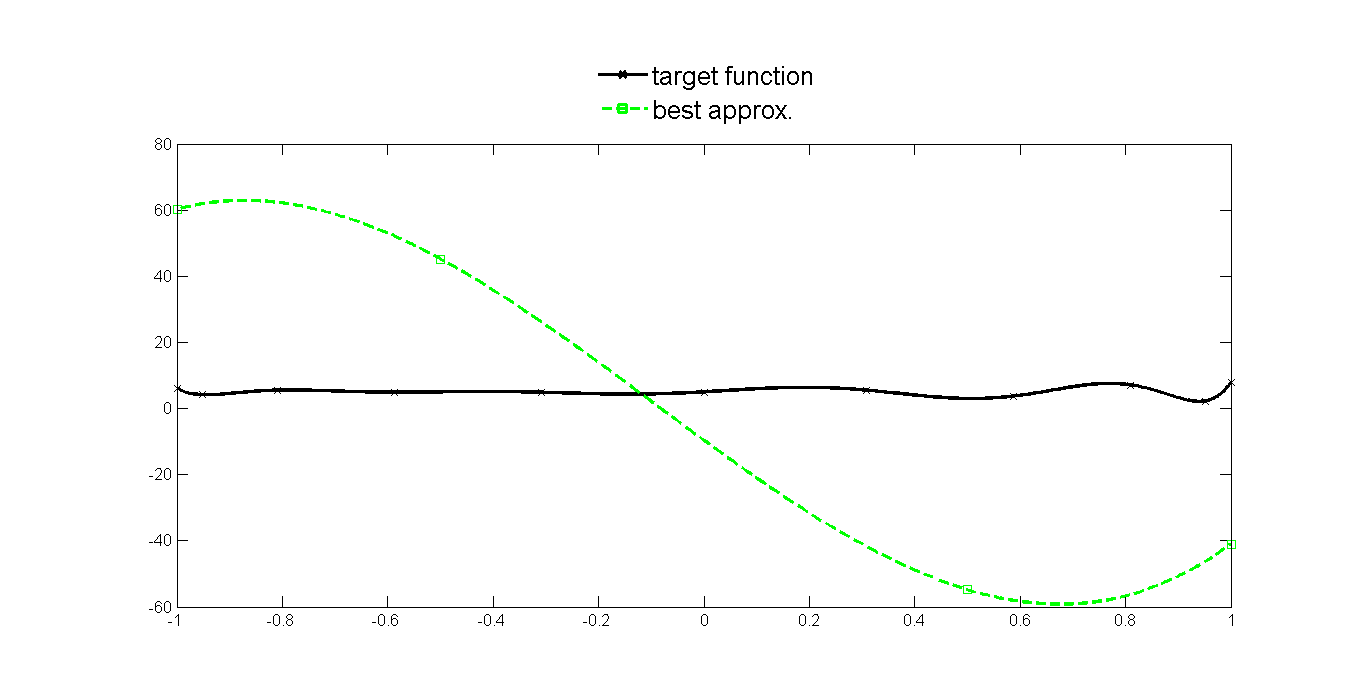
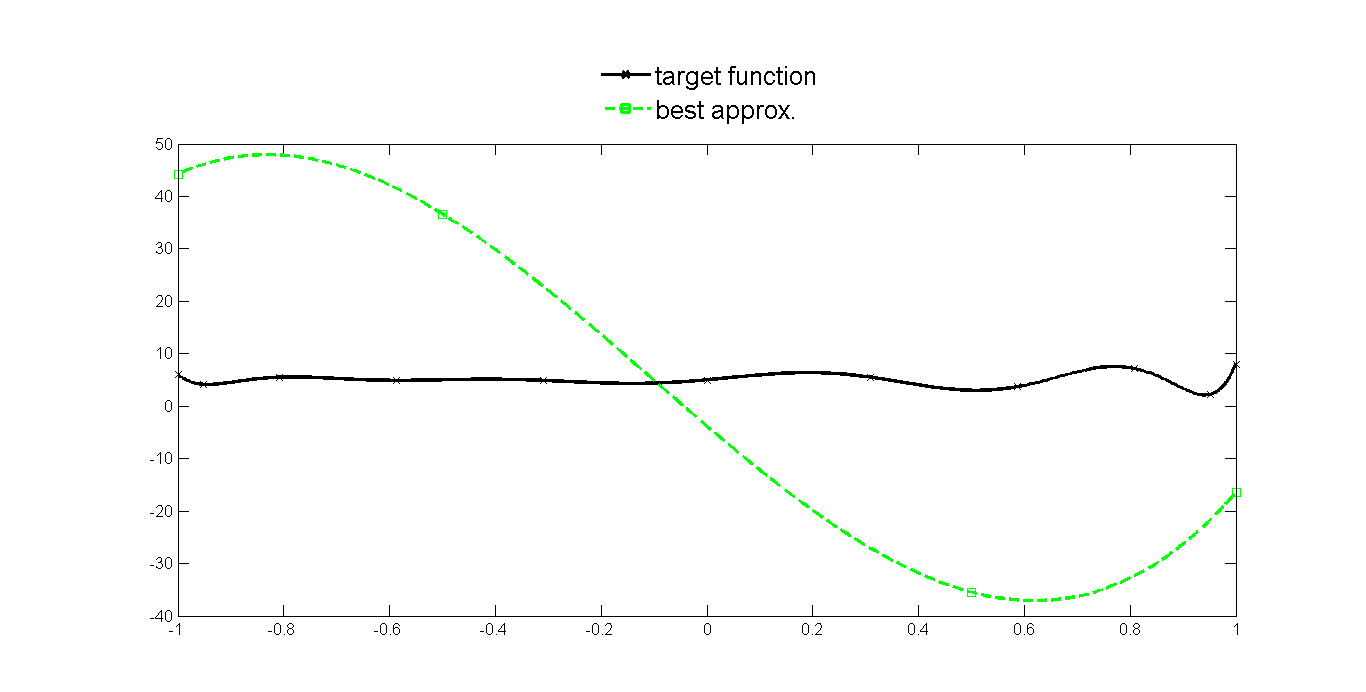
examples changes
Fixed mistakes in examples
Added numbers to examples

diff --git a/BascUsersGuide.html b/BascUsersGuide.html
@@ -277,7 +277,7 @@ and solved using CVX [2].
                         <td>
                             <a onclick="
                                 $('#guide_examples').parent('div.body_content_container').find('div.content_box').slideDown(0);
-                                $(window).scrollTop($('#examples_obj_fun').offset().top);">basc(F,n,'objective',{inf,{1,0.5}})</a>
+                                $(window).scrollTop($('#examples_obj_fun').offset().top);">basc(F,n,'objective',{inf,{0,1},{1,1/3}})</a>
                         </td>
                     </tr>
                     <!--side-->
@@ -681,11 +681,10 @@ set(legend(<span class="string">'target function'</span>, <span class="string">'
                 <div class="body_content_container_container">
                     <div class="content_content_box" id="examples_norm">
                         <p>
-                            Here we approximate the function $F(x) = T_{10}(x)$ 
-                            by polynomials of degree $n = 0$ in the 6-norm. According to  the equioscillation property
-                            for the unconstrained approximation the approximant is a horizontal line that goes though $0$.
+                            <span class="exNum">1. </span>Here we approximate the function $F(x) = T_{10}(x)$ 
+                            by polynomials of degree $n = 4$ in the 6-norm.
                         </p>
-                        <div class="code_box">n = 0; F = chebpoly(10);
+                        <div class="code_box">n = 4; F = chebpoly(10);
 [e,P] = basc(F,n,<span class="string">'norm'</span>,6);
 set(figure(1),POS,pos);
 plot(F,<span class="string">'x-k'</span>,P,<span class="string">'s--g'</span>,LW,lw);
@@ -702,10 +701,10 @@ set(legend(<span class="string">'target function'</span>, <span class="string">'
                 <div class="body_content_container_container">
                     <div class="content_content_box" id="examples_weight">
                         <p>
-                            Here we approximate the function $F(x) = T_{10}(x)$ 
-                            by polynomials of degree $n = 0$ in the max-norm with the weight $W(x) = x^2$.
+                            <span class="exNum">2. </span>Here we approximate the function $F(x) = T_{10}(x)$ 
+                            by polynomials of degree $n = 2$ in the max-norm with the weight $W(x) = x^2$.
                         </p>
-                        <div class="code_box">n = 0; F = chebpoly(10);
+                        <div class="code_box">n = 2; F = chebpoly(10);
 [e,P] = basc(F,n,<span class="string">'weight'</span>,chebfun(<span class="string">'x.^2'</span>))
 set(figure(1),POS,pos);
 plot(F,<span class="string">'x-k'</span>,P,<span class="string">'s--g'</span>,LW,lw);
@@ -722,7 +721,7 @@ set(legend(<span class="string">'target function'</span>, <span class="string">'
                 <div class="body_content_container_container">
                     <div class="content_content_box" id="examples_breakpoints">
                         <p>
-                            Here we approximate the function $F(x) = T_{10}(x)$ in the max-norm by a piecewise polynomial of degrees $1$, $4$, $1$, and $4$ on the intervals $[-1,-1/2]$, $[-1/2,0]$, $[0,1/2]$, and $[1/2,0]$, respectively.
+                            <span class="exNum">3. </span>Here we approximate the function $F(x) = T_{10}(x)$ in the max-norm by a piecewise polynomial of degrees $1$, $4$, $1$, and $4$ on the intervals $[-1,-1/2]$, $[-1/2,0]$, $[0,1/2]$, and $[1/2,0]$, respectively.
                         </p>
                         <div class="code_box">F = chebpoly(10);
 [e,P] = basc(F,[1 4 1 4],<span class="string">'bkpts'</span>,[-1/2 0 1/2])
@@ -741,7 +740,7 @@ set(legend(<span class="string">'target function'</span>, <span class="string">'
                 <div class="body_content_container_container">
                     <div class="content_content_box" id="examples_smoothness">
                         <p>
-                            Here we approximate the function $F(x) = T_{10}(x)$ in the max-norm by splines of degrees $1$, $4$, $1$, and $4$ on the intervals $[-1,-1/2]$, $[-1/2,0]$, $[0,1/2]$, and $[1/2,0]$, respectively, in such a way that the approximant is continuous at $-1/2$ and $1/2$ and differentiable at $0$.
+                            <span class="exNum">4. </span>Here we approximate the function $F(x) = T_{10}(x)$ in the max-norm by splines of degrees $1$, $4$, $1$, and $4$ on the intervals $[-1,-1/2]$, $[-1/2,0]$, $[0,1/2]$, and $[1/2,0]$, respectively, in such a way that the approximant is continuous at $-1/2$ and $1/2$ and differentiable at $0$.
                         </p>
                         <div class="code_box">F = chebpoly(10);
 [e,P] = basc(F,[1 4 1 4],<span class="string">'bkpts'</span>,[-1/2 0 1/2],<span class="string">'smoothness'</span>,[0 1 0])
@@ -760,9 +759,9 @@ set(legend(<span class="string">'target function'</span>, <span class="string">'
                 <div class="body_content_container_container">
                     <div class="content_content_box" id="examples_parity">
                         <p>
-                            Here we approximate the function $F(x) = T_{10}(x)+T_9(x)+T_8(x)+5$ in the max-norm by polynomials of degree $n \le 3$  that are even.
+                            <span class="exNum">5. </span>Here we approximate the function $F(x) = T_{10}(x)+T_9(x)+T_8(x)+5$ in the max-norm by polynomials of degree $n \le 4$  that are even.
                         </p>
-                        <div class="code_box">n = 3; F = chebpoly(10)+chebpoly(9)+chebpoly(8)+5;
+                        <div class="code_box">n = 4; F = chebpoly(10)+chebpoly(9)+chebpoly(8)+5;
 [e,P] = basc(F,n,<span class="string">'parity'</span>,<span class="string">'even'</span>);
 set(figure(1),POS,pos);
 plot(F,<span class="string">'x-k'</span>,P,<span class="string">'s--g'</span>,LW,lw);
@@ -779,7 +778,7 @@ set(legend(<span class="string">'target function'</span>, <span class="string">'
                 <div class="body_content_container_container">
                     <div class="content_content_box" id="examples_interpolation0">
                         <p>
-                            Here we approximate the function $F(x) = T_5(x)$ in the max-norm by polynomials of degree $n \le 5$ with the interpolating constraint that the approximant vanishes at $-1/2$, $0$, and $1/2$.
+                            <span class="exNum">6. </span>Here we approximate the function $F(x) = T_5(x)$ in the max-norm by polynomials of degree $n \le 5$ with the interpolating constraint that the approximant vanishes at $-1/2$, $0$, and $1/2$.
                         </p>
                         <div class="code_box">n = 5; F = chebpoly(5);
 [e,P]=basc(F, n, <span class="string">'interpolation'</span>, {{0, [-1/2 0 1/2; 0 0 0]}})
@@ -798,7 +797,7 @@ set(legend(<span class="string">'target function'</span>, <span class="string">'
                 <div class="body_content_container_container">
                     <div class="content_content_box" id="examples_interpolation1">
                         <p>
-                            Here we approximate the function $F(x) = T_5(x)$ in the max-norm by polynomials of degree $n \le 4$ with the constraint that the approximant interpolates $F$ at $-1/2$, $0$, and $1/2$.
+                            <span class="exNum">7. </span>Here we approximate the function $F(x) = T_5(x)$ in the max-norm by polynomials of degree $n \le 4$ with the constraint that the approximant interpolates $F$ at $-1/2$, $0$, and $1/2$.
                         </p>
                         <div class="code_box">n = 4; F = chebpoly(5);
 [e,P]=basc(F, n, <span class="string">'interpolation'</span>, {{0, [-1/2 0 1/2]}})
@@ -817,7 +816,7 @@ set(legend(<span class="string">'target function'</span>, <span class="string">'
                 <div class="body_content_container_container">
                     <div class="content_content_box" id="examples_upper_range">
                         <p>
-                            Here we approximate the function $F(x) = T_{10}(x)+T_9(x)+T_8(x)+5$ in the max-norm by polynomials of degree $n \le 3$  with the upper range constraint that the approximant is bounded above by $1-x^2$ and its derivative  is bounded above by $1$.
+                            <span class="exNum">8. </span>Here we approximate the function $F(x) = T_{10}(x)+T_9(x)+T_8(x)+5$ in the max-norm by polynomials of degree $n \le 3$  with the upper range constraint that the approximant is bounded above by $1-x^2$ and its derivative  is bounded above by $1$.
                         </p>
                         <div class="code_box">n = 3; F = chebpoly(10)+chebpoly(9)+chebpoly(8)+5;
 [e,P] = basc(F,n,<span class="string">'upper range'</span>,{{0,chebfun(<span class="string">'1-x.^2'</span>)},{1,chebfun(<span class="string">'1'</span>)}})
@@ -836,7 +835,7 @@ set(legend(<span class="string">'target function'</span>, <span class="string">'
                 <div class="body_content_container_container">
                     <div class="content_content_box" id="examples_lower_range">
                         <p>
-                            Here we approximate the function $F(x) = T_{10}(x)+T_9(x)+T_8(x)+5$ in the max-norm by polynomials of degree $n \le 3$ with the lower range constraint that the approximant is bounded below by $x^2-1$ and its derivative is bounded below by $-1$.
+                            <span class="exNum">9. </span>Here we approximate the function $F(x) = T_{10}(x)+T_9(x)+T_8(x)+5$ in the max-norm by polynomials of degree $n \le 3$ with the lower range constraint that the approximant is bounded below by $x^2-1$ and its derivative is bounded below by $-1$.
                         </p>
                         <div class="code_box">n = 3; F = chebpoly(10)+chebpoly(9)+chebpoly(8)+5;
 [e,P] = basc(F,n,<span class="string">'lower range'</span>,{{0,chebfun(<span class="string">'x.^2-1'</span>)},{1,chebfun(<span class="string">'-1'</span>)}})
@@ -855,7 +854,7 @@ set(legend(<span class="string">'target function'</span>, <span class="string">'
                 <div class="body_content_container_container">
                     <div class="content_content_box" id="examples_shape">
                         <p>
-                            Here we approximate the function $F(x) = T_{10}(x)+T_9(x)+T_8(x)+5$ in the max-norm by polynomials of degree $n \le 3$  with the shape constraint that the approximant is concave on $[-1,0]$ and convex on $[0,1]$.
+                            <span class="exNum">10. </span>Here we approximate the function $F(x) = T_{10}(x)+T_9(x)+T_8(x)+5$ in the max-norm by polynomials of degree $n \le 3$  with the shape constraint that the approximant is concave on $[-1,0]$ and convex on $[0,1]$.
                         </p>
                         <div class="code_box">n = 3; F = chebpoly(10)+chebpoly(9)+chebpoly(8)+5;
 [e,P] = basc(F,n,<span class="string">'shape'</span>,{{2,chebfun(<span class="string">'x'</span>)}}')
@@ -874,11 +873,11 @@ set(legend(<span class="string">'target function'</span>, <span class="string">'
                 <div class="body_content_container_container">
                     <div class="content_content_box" id="examples_obj_fun">
                         <p>
-                            Here we approximate the function $F(x) = T_{10}(x)+T_9(x)+T_8(x)+5$ by polynomials of degree $n \le 3$ in the max-norm with objective function constraint such that
-                            its derivative has the weight $W(x)=0.5$.
+                            <span class="exNum">11. </span>Here we approximate the function $F(x) = T_{10}(x)+T_9(x)+T_8(x)+5$ by polynomials of degree $n \le 3$ in the max-norm with objective function constraint such that
+                            it has the weight $W_1(x)=1$ and its derivative has the weight $W_2(x)=1/3$.
                         </p>
                         <div class="code_box">n = 3; F = chebpoly(10)+chebpoly(9)+chebpoly(8)+5;
-[e,P] = basc(F,n,<span class="string">'objective'</span>,{inf,{1,0.5}})
+[e,P] = basc(F,n,<span class="string">'objective'</span>,{inf,{0,1},{1,1/3}})
 set(figure(1),POS,pos);
 plot(F,<span class="string">'x-k'</span>,P,<span class="string">'s--g'</span>,LW,lw);
 set(legend(<span class="string">'target function'</span>, <span class="string">'best approx.'</span>),FS,fs,LOC,loc,BX,bx);</div>
@@ -894,10 +893,10 @@ set(legend(<span class="string">'target function'</span>, <span class="string">'
                 <div class="body_content_container_container">
                     <div class="content_content_box" id="examples_side">
                         <p>
-                            Here we approximate the function $F(x) = T_{10}(x)+T_9(x)+T_8(x)+5$ in the max-norm  by polynomials of degree $n \le 3$  with
+                            <span class="exNum">12. </span>Here we approximate the function $F(x) = T_{10}(x)+T_9(x)+T_8(x)+5$ in the max-norm  by polynomials of degree $n \le 4$  with
                             the constraint that the approximant is larger than the target function.
                         </p>
-                        <div class="code_box">n = 3; F = chebpoly(10)+chebpoly(9)+chebpoly(8)+5;
+                        <div class="code_box">n = 4; F = chebpoly(10)+chebpoly(9)+chebpoly(8)+5;
 [e,P] = basc(F,n,<span class="string">'above'</span>)
 set(figure(1),POS,pos);
 plot(F,<span class="string">'x-k'</span>,P,<span class="string">'s--g'</span>,LW,lw);
@@ -914,10 +913,10 @@ set(legend(<span class="string">'target function'</span>, <span class="string">'
                 <div class="body_content_container_container">
                     <div class="content_content_box" id="examples_sign">
                         <p>
-                            Here we approximate the function $F(x) = T_{10}(x)-3$ in the max-norm by polynomials of degree $n \le 3$  with
+                            <span class="exNum">13. </span>Here we approximate the function $F(x) = T_{10}(x)-2$ in the max-norm by polynomials of degree $n \le 3$  with
                             the constraint that the approximant is positive.
                         </p>
-                        <div class="code_box">n = 3; F = chebpoly(10)-3;
+                        <div class="code_box">n = 3; F = chebpoly(10)-2;
 [e,P] = basc(F,n,<span class="string">'positive'</span>)
 set(figure(1),POS,pos);
 plot(F,<span class="string">'x-k'</span>,P,<span class="string">'s--g'</span>,LW,lw);
@@ -934,7 +933,7 @@ set(legend(<span class="string">'target function'</span>, <span class="string">'
                 <div class="body_content_container_container">
                     <div class="content_content_box" id="examples_monotonicity">
                         <p>
-                            Here we approximate the function $F(x) = T_{10}(x)+T_9(x)+T_8(x)+5$ in the max-norm by polynomials of degree $n \le 3$  with
+                            <span class="exNum">14. </span>Here we approximate the function $F(x) = T_{10}(x)+T_9(x)+T_8(x)+5$ in the max-norm by polynomials of degree $n \le 3$  with
                             the constraint that the approximant is decreasing.
                         </p>
                         <div class="code_box">n = 3; F = chebpoly(10)+chebpoly(9)+chebpoly(8)+5;
@@ -954,7 +953,7 @@ set(legend(<span class="string">'target function'</span>, <span class="string">'
                 <div class="body_content_container_container">
                     <div class="content_content_box" id="examples_concavity">
                         <p>
-                            Here we approximate the function $F(x) = T_{10}(x)+T_9(x)+T_8(x)+5$ in the max-norm by polynomials of degree $n \le 3$  with the constraint that the approximant is convex.
+                            <span class="exNum">15. </span>Here we approximate the function $F(x) = T_{10}(x)+T_9(x)+T_8(x)+5$ in the max-norm by polynomials of degree $n \le 3$  with the constraint that the approximant is convex.
                         </p>
                         <div class="code_box">n = 3; F = chebpoly(10)+chebpoly(9)+chebpoly(8)+5;
 [e,P] = basc(F,n,<span class="string">'convex'</span>)
@@ -973,7 +972,7 @@ set(legend(<span class="string">'target function'</span>, <span class="string">'
                 <div class="body_content_container_container">
                     <div class="content_content_box" id="examples_quiet">
                         <p>
-                            Here we display CVX's screen output when approximating the function $F(x) = T_{10}(x)+T_9(x)+T_8(x)+5$ in the max-norm  by polynomials of degree $n \le 3$.
+                            <span class="exNum">16. </span>Here we display CVX's screen output when approximating the function $F(x) = T_{10}(x)+T_9(x)+T_8(x)+5$ in the max-norm  by polynomials of degree $n \le 3$.
                         </p>    
                         <div class="code_box">n = 3; F = chebpoly(10)+chebpoly(9)+chebpoly(8)+5;
 [e,P] = basc(F,n,<span class="string">'quiet'</span>,false)
@@ -1056,7 +1055,7 @@ Epslevel = 1.110223e-15.  Vscale = 7.324816e+00.
                 <div class="body_content_container_container">
                     <div class="content_content_box" id="examples_precision">
                         <p>
-                            Here we use CVX's high precision when approximating the function $F(x) = T_{10}(x)+T_9(x)+T_8(x)+5$ in the max-norm by polynomials of degree $n \le 3$.
+                            <span class="exNum">17. </span>Here we use CVX's high precision when approximating the function $F(x) = T_{10}(x)+T_9(x)+T_8(x)+5$ in the max-norm by polynomials of degree $n \le 3$.
                         </p>    
                         <div class="code_box">n = 3; F = chebpoly(10)+chebpoly(9)+chebpoly(8)+5;
 [e,P] = basc(F,n,<span class="string">'precison'</span>,<span class="string">'high'</span>)
@@ -1076,7 +1075,7 @@ set(legend(<span class="string">'target function'</span>, <span class="string">'
                 <div class="body_content_container_container">
                     <div class="content_content_box" id="examples_solver">
                         <p>
-                            Here we select the solver SeDuMi for CVX when approximating  the function $F(x) = T_{10}(x)+T_9(x)+T_8(x)+5$ in the max-norm by polynomials of degree $n \le 3$.
+                            <span class="exNum">18. </span>Here we select the solver SeDuMi for CVX when approximating  the function $F(x) = T_{10}(x)+T_9(x)+T_8(x)+5$ in the max-norm by polynomials of degree $n \le 3$.
                         </p>     
                         <div class="code_box">n = 3; F = chebpoly(10)+chebpoly(9)+chebpoly(8)+5;
 [e,P] = basc(F,n,<span class="string">'solver'</span>,<span class="string">'sedumi'</span>);

diff --git a/BascUserGuideFiles/css/bascug.css b/BascUserGuideFiles/css/bascug.css
@@ -34,6 +34,8 @@ body {
     height: auto;
 }
 
+span.exNum { font-size: 1.2em }
+
 span.keyword { color:#0000FF }
 span.comment { color:#228B22 }
 span.string { color:#A020F0 }

diff --git a/BascUserGuideFiles/js/main.js b/BascUserGuideFiles/js/main.js
@@ -76,6 +76,8 @@ $(document).ready(function() {
     }
     
     
+    window.scrollTo(0, 0);
+    
 });
 
 function hide_button_press(){
